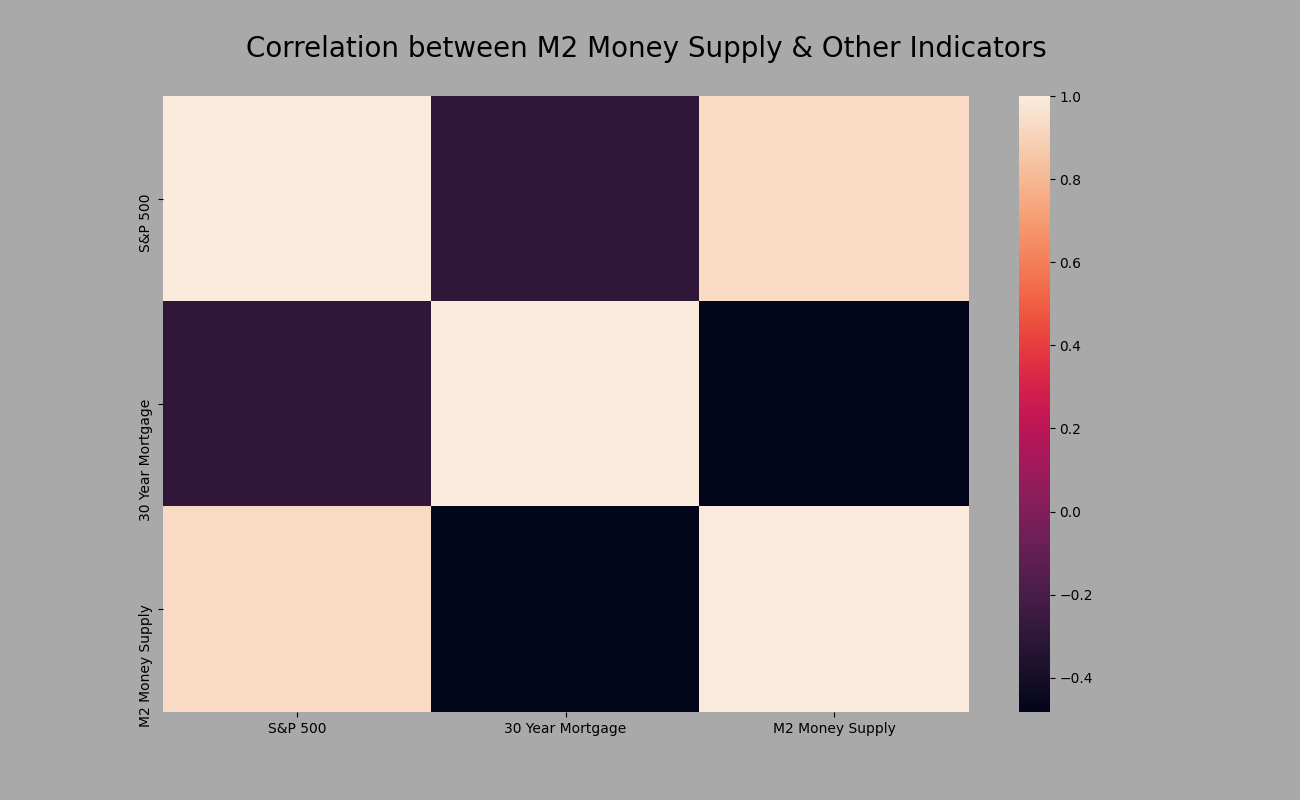
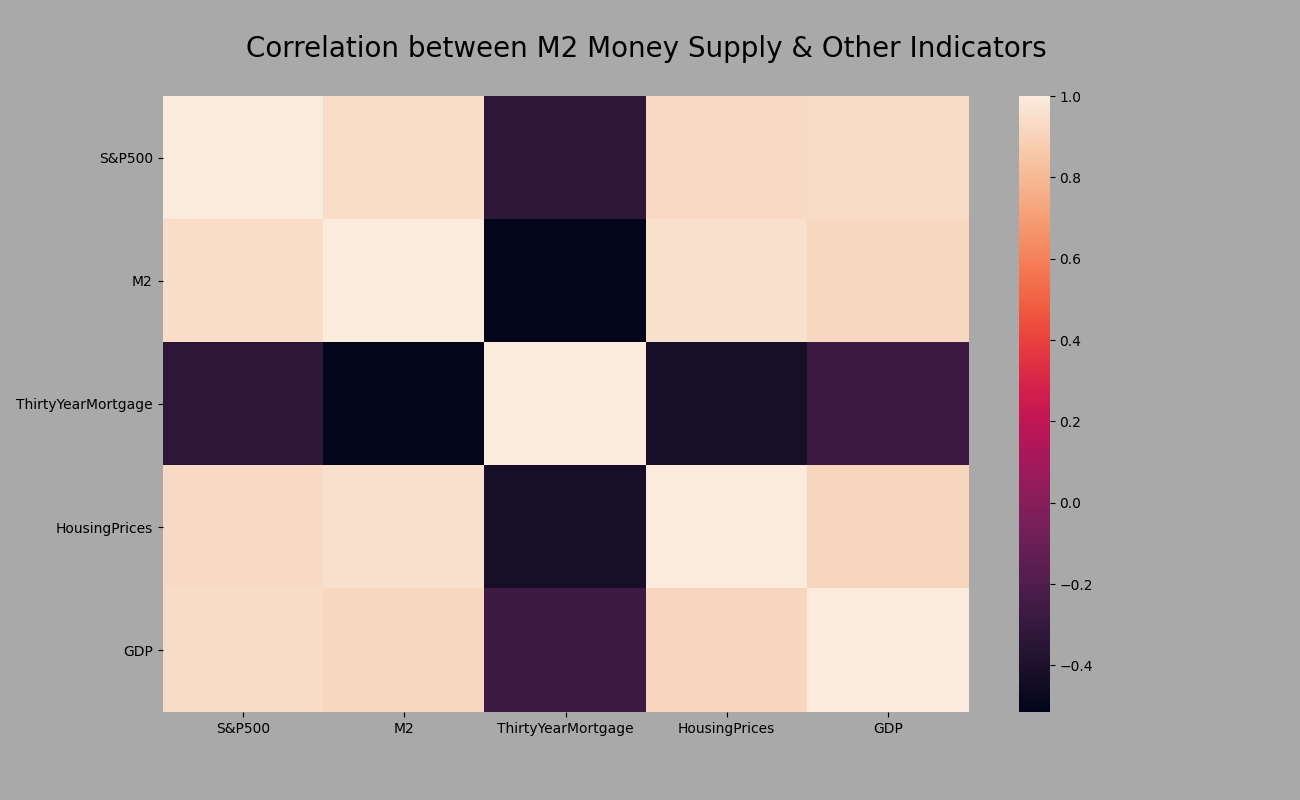
9-JAN-2020
Added more datasets to be graphed and extended the time-frame. When I have time, the normalized_graph() function needs to be broken into two; a normalizer and a grapher function.

diff --git a/money_supply_cor.py b/money_supply_cor.py
@@ -4,29 +4,45 @@ from matplotlib import pyplot as plt
 from matplotlib import rcParams as rc
 import seaborn as sns
 
-api_key = f'<insert key>'
+"""
+This app uses macroeconomic data from FRED to give some context as to what's happening in the economy. It focuses
+on how the M2 money supply relates to the S&P 500, GDP, Home Prices, and for good measure incorporates the 30 Year 
+mortgage rate as that's probably the most important rate to the consumer.  
+"""
+
+api_key = f'<YOUR_KEY_GOES_HERE>'
 fred = Fred(api_key=api_key)
 
 
-def data_fetch():
-    sp = fred.get_series("SP500", observation_start="2013", observation_end="2021").resample("W").first()
-    m2 = list(fred.get_series("WM2NS", observation_start="2013", observation_end="2021"))
-    m2.append(19345.2)  # added as an estimate, likely a low one
-    m = pd.Series(m2)
-    s = sp.reset_index()
-    s = s.drop(columns=[0])
-    mm = pd.concat([s, m], axis=1)
-    mm = mm.set_index("index")
-    mm.columns = [''] * len(mm.columns)
+def macro_data():
+    """
+    Imports data from FRED. Slices into DataFrame
+    :return: DataFrame
+    """
+    sp = fred.get_series("SP500", observation_start="2012-12-31", observation_end="2021-07-01 ").resample("Q").first()
+    sp = sp[:-1]
+    m2 = fred.get_series("WM2NS", observation_start="2012-12-31").resample("Q").first()
+    m2 = m2[:-2]
+    tym = fred.get_series("MORTGAGE30US", observation_start="2012-12-22").resample("Q").first()
+    tym = tym[:-3]
+    hp = fred.get_series("MSPUS", observation_start="2013")
+    gdp = fred.get_series("GDP", observation_start="2013")
+    idx = gdp.reset_index()
+    id = list(idx["index"])
+    the_d = {"index": id, "S&P500": list(sp), "M2": list(m2), "ThirtyYearMortgage": list(tym),
+             "HousingPrices": list(hp), "GDP": list(gdp)}
+    data = pd.DataFrame(the_d)
+    data = data.set_index("index")
 
-    tym = fred.get_series("MORTGAGE30US", observation_start="2013", observation_end="2021").resample("W").first()
-    df = pd.concat([sp, tym, mm], axis=1)
-    df.columns = ["S&P 500", "30 Year Mortgage", "M2 Money Supply"]
-
-    return df
+    return data
 
 
 def graphic(data, save=False):
+    """
+    Makes Heatmap of data
+    :param data: dataframe from macro_data()
+    :param save: False=Shows in IDE, True=Saved as png
+    """
     d = data.corr()
     rc['figure.figsize'] = 13, 8
     plt.figure(facecolor='darkgrey')
@@ -36,7 +52,51 @@ def graphic(data, save=False):
         plt.show()
     else:
         plt.savefig("Money & Rates")
+    plt.clf()
+
+
+def normalized_graph(data, save=False):
+    """
+    Normalizes and graphs data from macro_data()
+    :param data: DataFrame
+    :param save: False=Shows in IDE, True=Saved as png
+    :return:
+    """
+    hello = {}
+    for col in data:
+        mi = data[col].min()
+        ma = data[col].max()
+        temp = []
+        for point in data[col]:
+            nd = (point - mi) / (ma - mi)
+            temp.append(nd)
+        hello[col] = temp
+
+    x = data.reset_index()
+    df = pd.DataFrame(hello)
+    df["index"] = x["index"]
+    df = df.set_index("index")
+    df = df[:-1]
+
+    rc['figure.figsize'] = 13, 8
+    plt.figure(facecolor='darkgrey')
+    sns.set_style("darkgrid")
+    ax = sns.lineplot(data=df)
+    ax.set(yticklabels=[], xlabel="By Quarter", ylabel="Normalized Data")
+    plt.title("Normalized Metrics by Quarter", fontsize=20, y=1.05)
+    if save is False:
+        plt.show()
+    else:
+        plt.savefig("normalized graph")
 
 
 if __name__ == "__main__":
-    graphic(data_fetch(), True)
+    df = macro_data()
+    graphic(df, True)
+    normalized_graph(df, True)
+    print("Complete")
+
+
+
+
+
